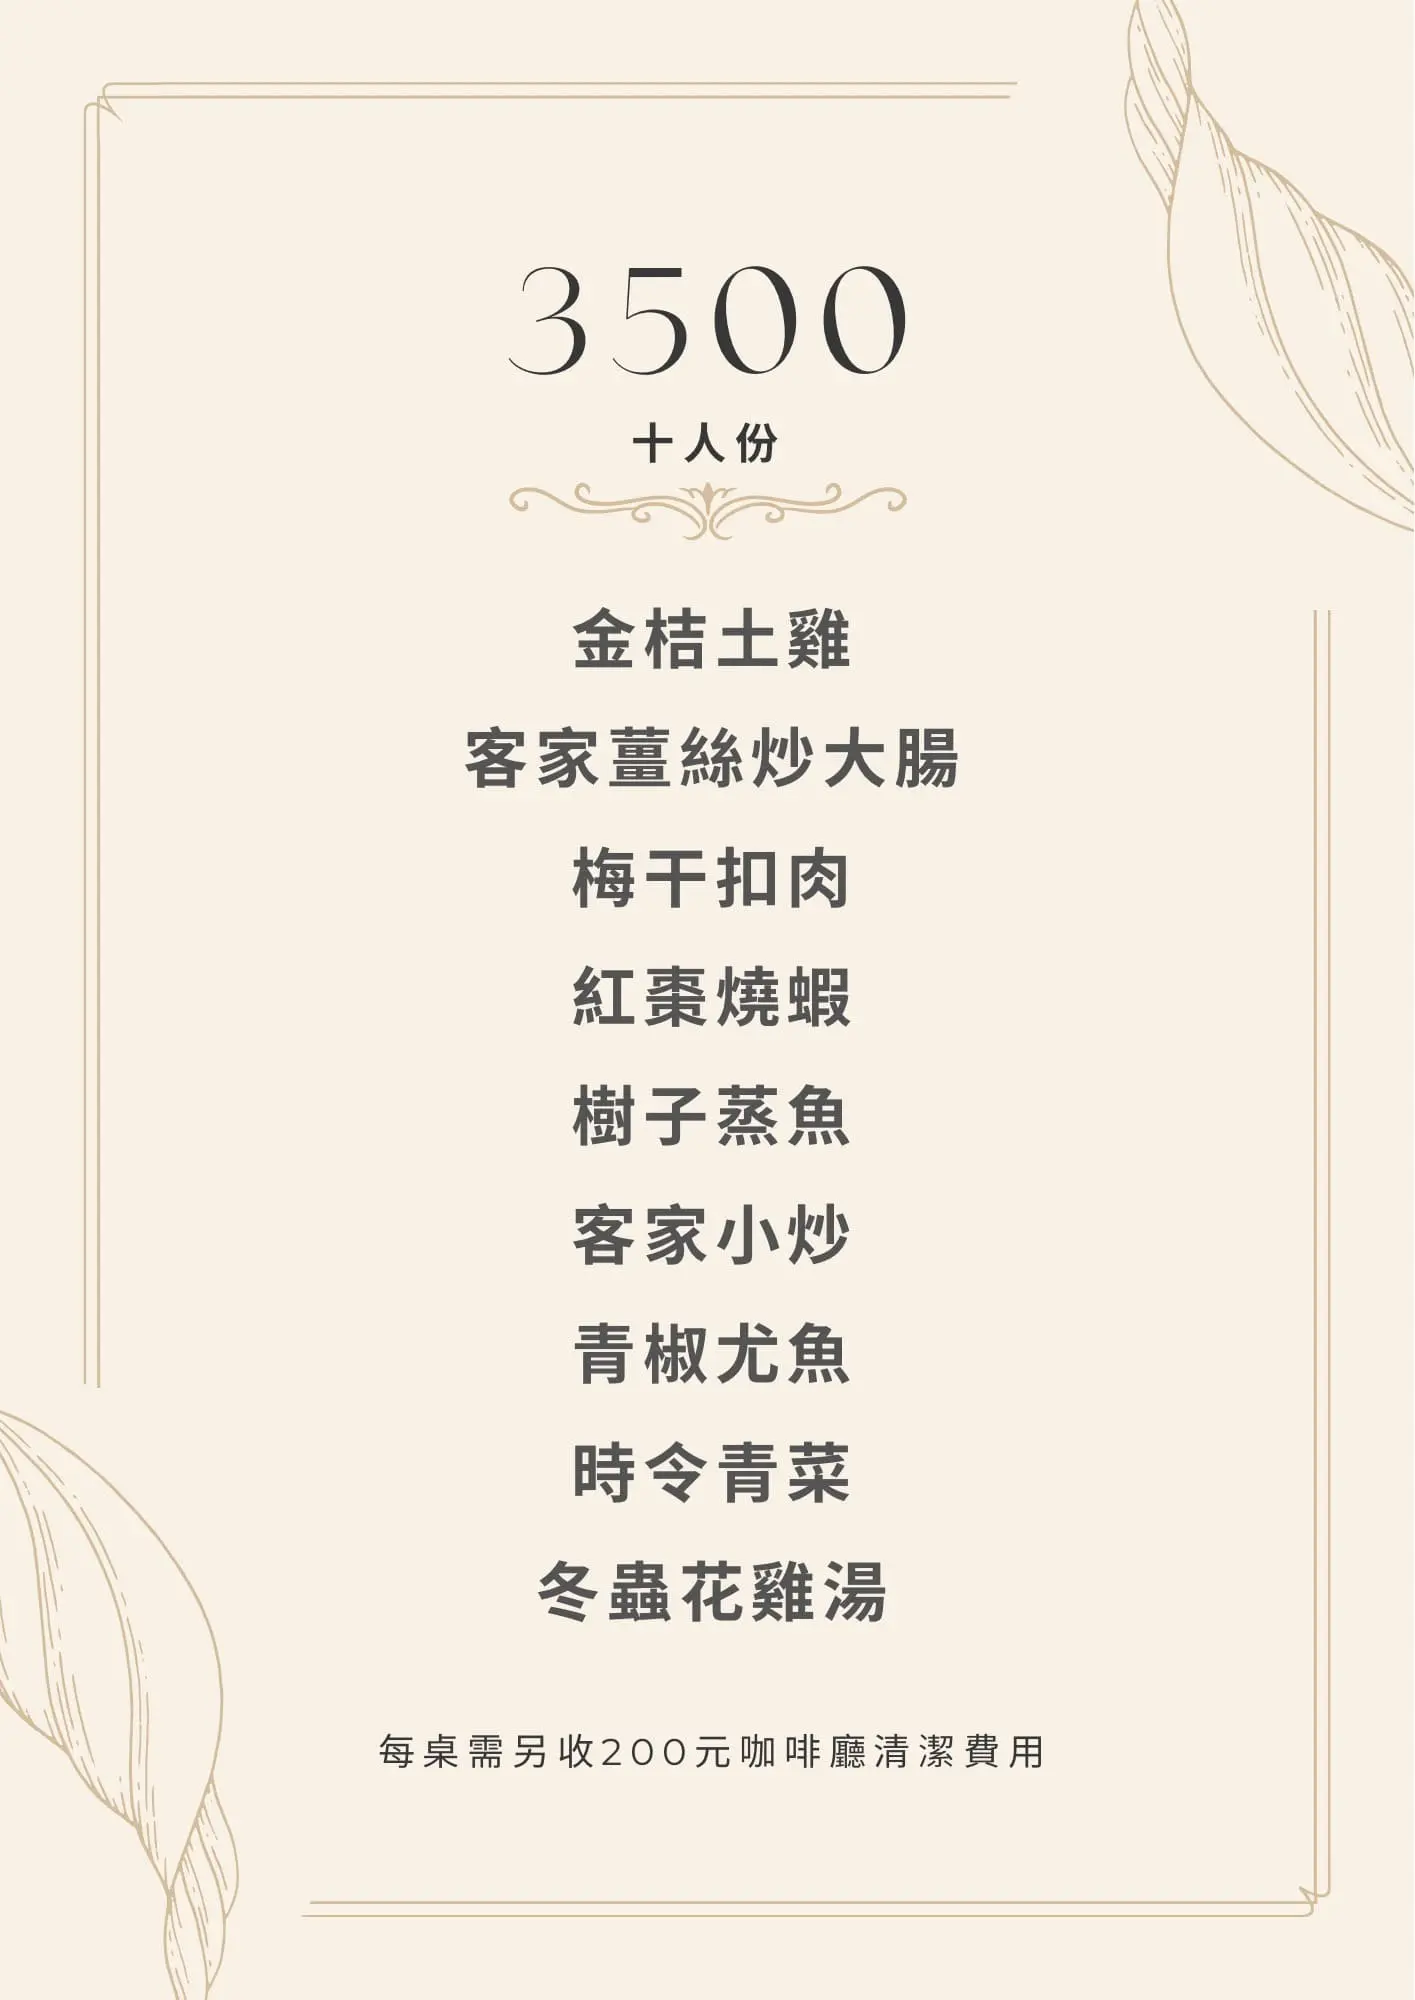
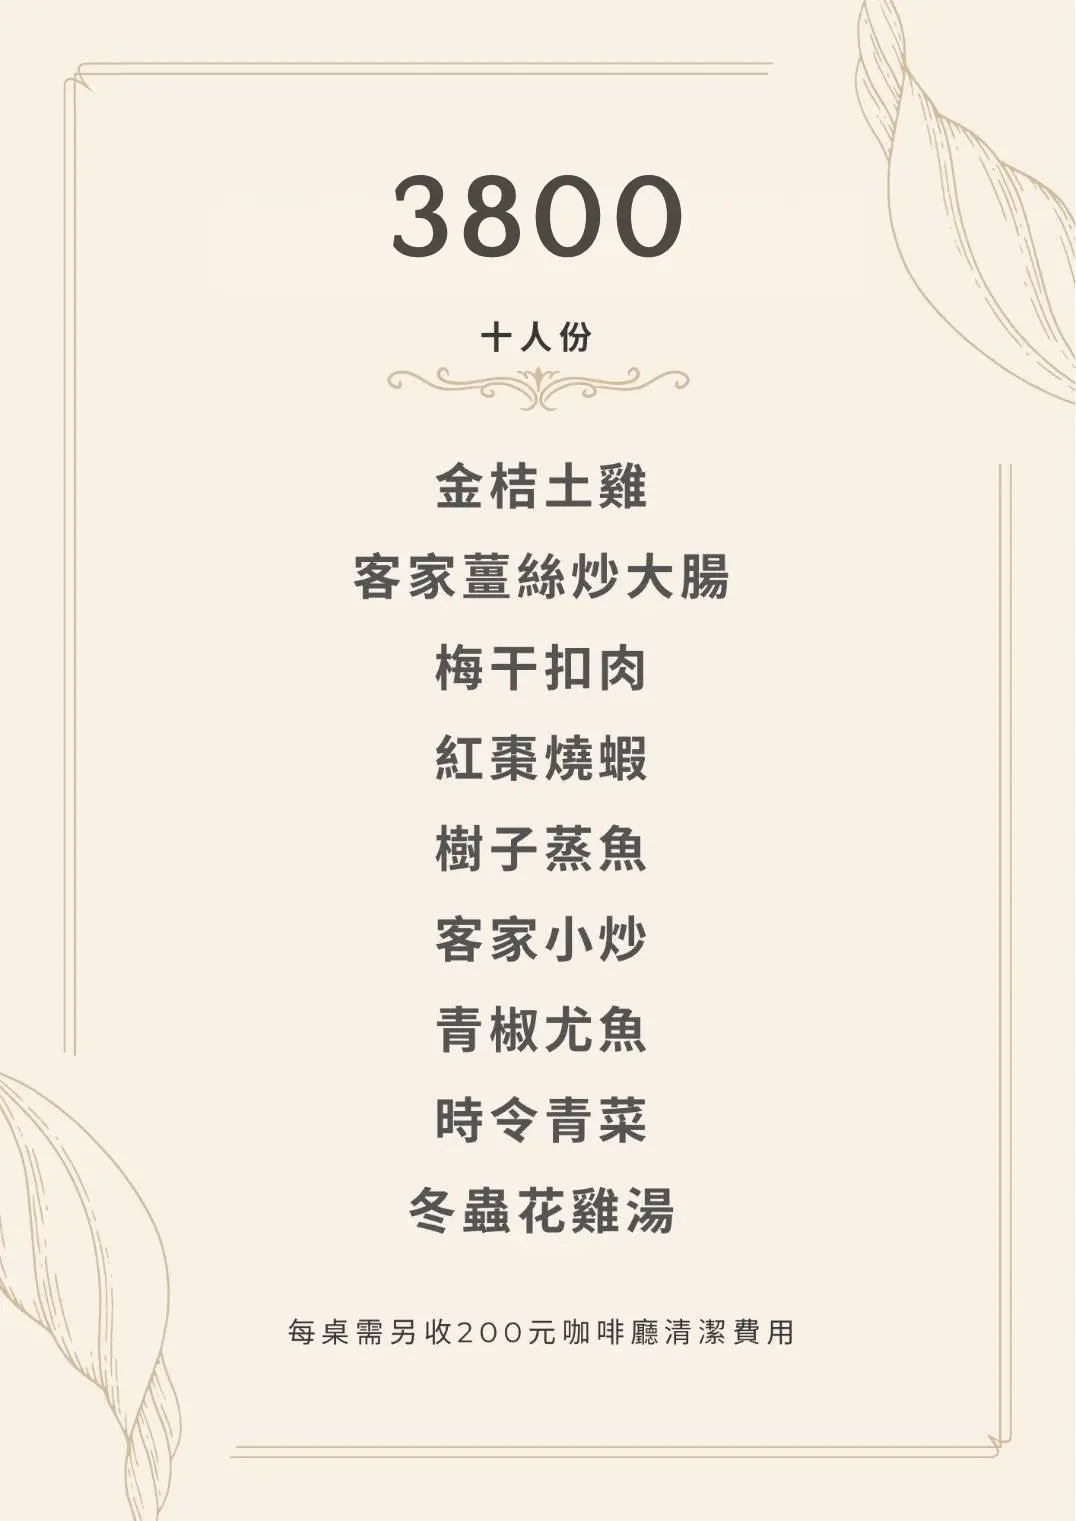
fix: 更新經濟合菜及精緻合菜圖片與價格
- 更新經濟合菜圖片與價格 ($3,500 → $3,800)
- 更新精緻合菜圖片與價格 ($4,000 → $4,200)

Changed region(s): [[0.368, 0.0927, 0.6441, 0.1854]]

diff --git a/_infos/2022-10-06-set-menu-info.html b/_infos/2022-10-06-set-menu-info.html
@@ -42,12 +42,12 @@ image:
 
 <div class="modal fade mt-5" id="set-ment-2" role="dialog" aria-labelledby="set-ment-2ModalLabel">
   <div class="modal-dialog text-center modal-container" role="document" style="max-width: 960px;">
-    <span class="image"><img src="{% link assets/images/set_menu_2.webp %}" alt="經濟合菜 $3,500"></span>
+    <span class="image"><img src="{% link assets/images/set_menu_2.webp %}" alt="經濟合菜 $3,800"></span>
   </div>
 </div>
 
 <div class="modal fade mt-5" id="set-ment-3" role="dialog" aria-labelledby="set-ment-3ModalLabel">
   <div class="modal-dialog text-center modal-container" role="document" style="max-width: 960px;">
-    <span class="image"><img src="{% link assets/images/set_menu_3.webp %}" alt="精緻合菜 $4,000"></span>
+    <span class="image"><img src="{% link assets/images/set_menu_3.webp %}" alt="精緻合菜 $4,200"></span>
   </div>
 </div>
